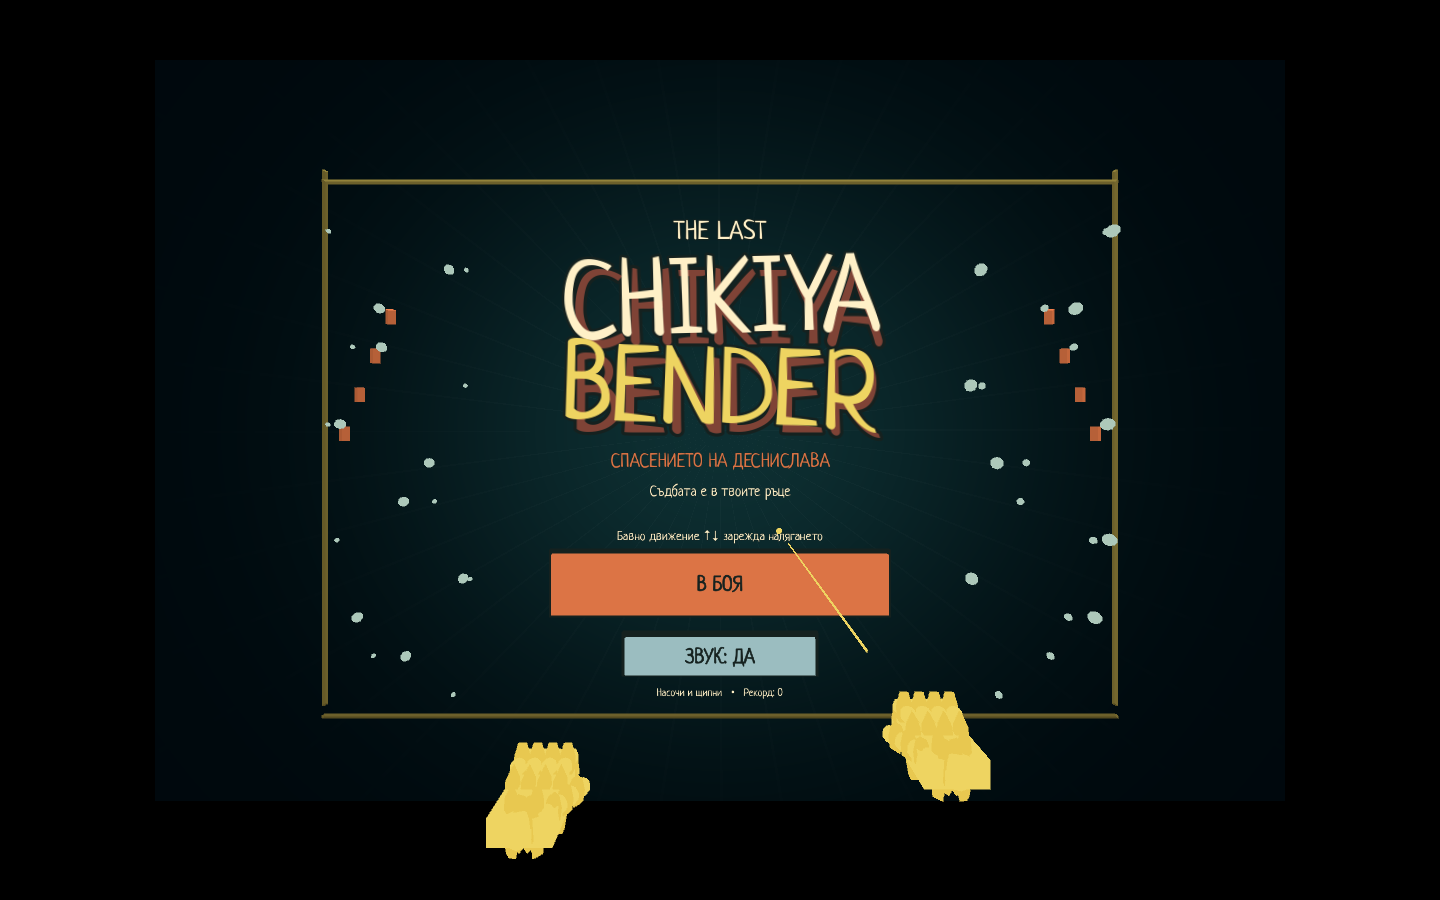
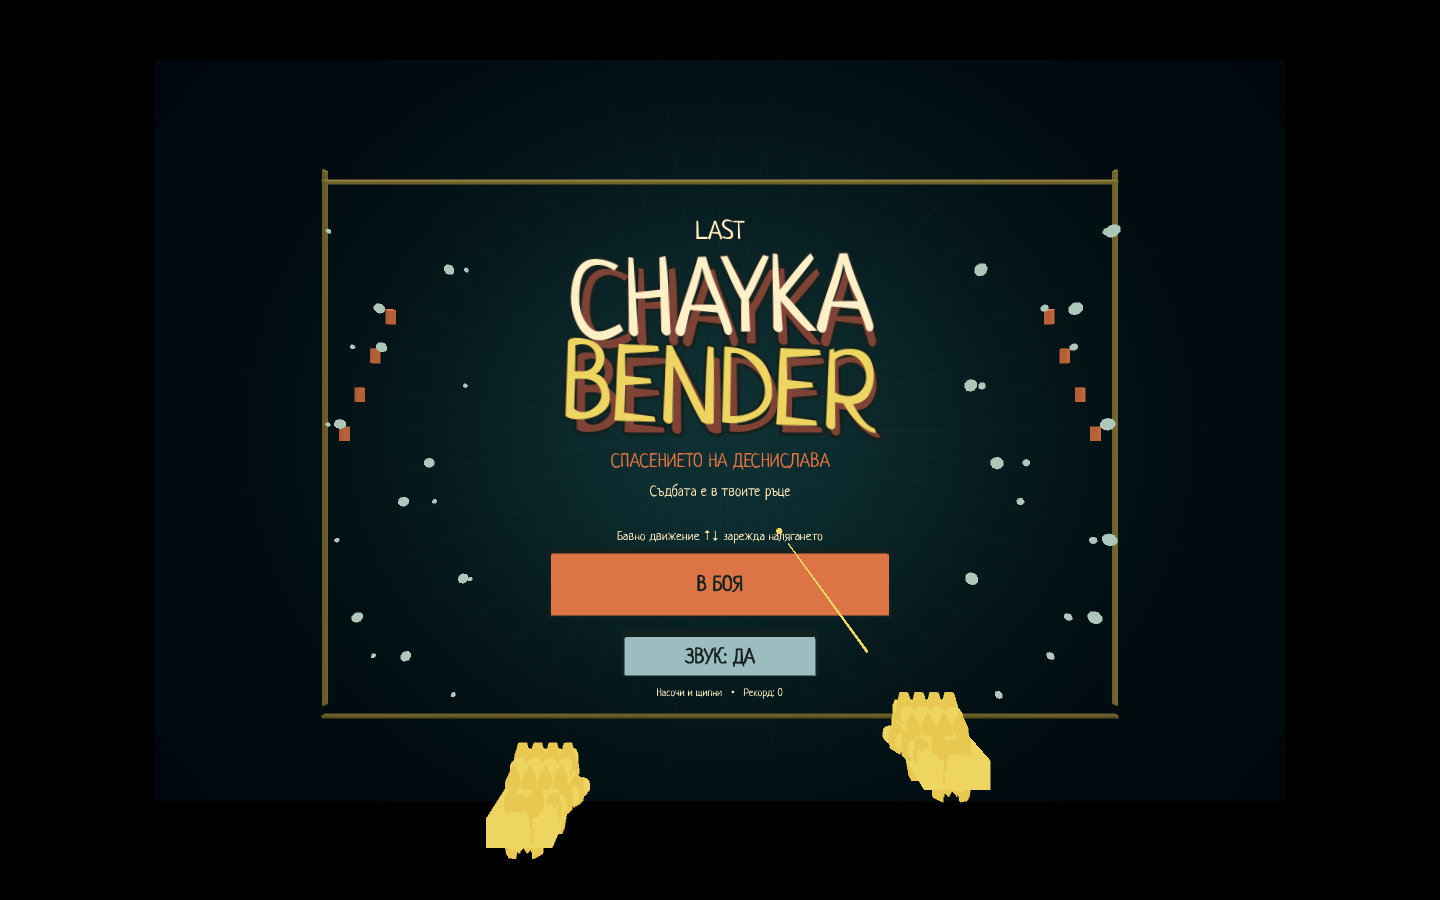
Rename game to Last Chayka Bender and prepare v0.2.2

Changed region(s): [[0.375, 0.2178, 0.625, 0.4044]]

diff --git a/tools/project.py b/tools/project.py
@@ -70,12 +70,12 @@ def setup():
     cache.parent.mkdir(exist_ok=True)
     if not cache.exists() or hashlib.sha256(cache.read_bytes()).hexdigest() != dep["sha256"]:
         print(f"Downloading OpenXR Vendors {dep['version']} from its official release...")
-        request = urllib.request.Request(dep["url"], headers={"User-Agent": "ChikiBender-Setup"})
+        request = urllib.request.Request(dep["url"], headers={"User-Agent": "LastChaykaBender-Setup"})
         with urllib.request.urlopen(request, timeout=120) as response, cache.open("wb") as output:
             shutil.copyfileobj(response, output)
     if hashlib.sha256(cache.read_bytes()).hexdigest() != dep["sha256"]:
         raise RuntimeError("OpenXR download SHA256 mismatch; dependency was not installed")
-    with tempfile.TemporaryDirectory(prefix="chiki-openxr-") as temporary:
+    with tempfile.TemporaryDirectory(prefix="chayka-openxr-") as temporary:
         with zipfile.ZipFile(cache) as archive:
             extract_safe(archive, Path(temporary))
         source = Path(temporary) / "asset/addons/godotopenxrvendors"
@@ -142,10 +142,10 @@ def main():
         android_template()
         (ROOT / "build").mkdir(exist_ok=True)
         run([engine(), "--headless", "--xr-mode", "off", "--path", ".", "--export-debug",
-             "Quest Pro Hands", "build/ChikiBender-Quest.apk"])
+             "Quest Pro Hands", "build/LastChaykaBender-Quest.apk"])
         run([sys.executable, "tests/verify_apk.py"])
     elif args.command == "install":
-        apk = ROOT / "build/ChikiBender-Quest.apk"
+        apk = ROOT / "build/LastChaykaBender-Quest.apk"
         if not apk.exists():
             raise RuntimeError("Build an APK first, or download the release into build/.")
         adb = tool("adb")

diff --git a/tests/verify_apk.py b/tests/verify_apk.py
@@ -10,7 +10,7 @@ import subprocess
 import zipfile
 
 ROOT = Path(__file__).resolve().parents[1]
-APK = ROOT / 'build/ChikiBender-Quest.apk'
+APK = ROOT / 'build/LastChaykaBender-Quest.apk'
 config_path = ROOT / '.local-tools.json'
 config = json.loads(config_path.read_text()) if config_path.exists() else {}
 aapt = os.environ.get('AAPT') or config.get('aapt') or shutil.which('aapt')
@@ -45,7 +45,7 @@ with zipfile.ZipFile(APK) as archive:
     assert any('main.gd' in n or 'main.tscn' in n or '.pck' in n for n in names)
     assert not any(n.startswith('assets/tests/') or n.startswith('assets/qa/') for n in names)
     assert not any('game-concept' in n or 'PROMPT' in n for n in names)
-report = {'apk': 'build/ChikiBender-Quest.apk', 'bytes': APK.stat().st_size,
+report = {'apk': 'build/LastChaykaBender-Quest.apk', 'bytes': APK.stat().st_size,
           'sha256': hashlib.sha256(APK.read_bytes()).hexdigest(),
           'package': expected_package, 'architecture': 'arm64-v8a',
           'required_hand_tracking': True, 'quest_pro_declared': True,

diff --git a/README.md b/README.md
@@ -1,4 +1,4 @@
-# The Last Chikiya Bender
+# Last Chayka Bender
 
 **Спасението на Деснислава — „Съдбата е в твоите ръце“**
 
@@ -10,7 +10,7 @@ Hand-tracking arcade wave game за **Meta Quest Pro**, направена с **
 
 ## Играй
 
-Изтегли APK от [Releases](https://github.com/peshigoshi27/the-last-chikiya-bender/releases). Това е **debug прототип 0.2.1**, не Store издание. Проектът е изпитван на Quest Pro; пълното физическо приемане на последната ревизия още предстои.
+Изтегли APK от [Releases](https://github.com/peshigoshi27/last-chayka-bender/releases). Това е **debug прототип 0.2.2**, не Store издание. Проектът е изпитван на Quest Pro; пълното физическо приемане на последната ревизия още предстои.
 
 Инсталирай със SideQuest или ADB, включи hand tracking и остави контролерите. Заглавието се появява автоматично. Насочи ръка към **„В БОЯ“** и щипни.
 
@@ -57,7 +57,7 @@ python3 tools/project.py build
 python3 tools/project.py install
 ```
 
-Build първо изпълнява тестовете, подготвя Android template от инсталираните Godot export templates, експортира и проверява APK. Ако template липсва, инсталирай го чрез **Project → Install Android Build Template**. Резултатът е `build/ChikiBender-Quest.apk`.
+Build първо изпълнява тестовете, подготвя Android template от инсталираните Godot export templates, експортира и проверява APK. Ако template липсва, инсталирай го чрез **Project → Install Android Build Template**. Резултатът е `build/LastChaykaBender-Quest.apk`.
 
 `install` използва ADB от `PATH`/Android SDK или променливата `ADB`. При няколко устройства задай `ANDROID_SERIAL`. На macOS има `BUILD.command`, `INSTALL.command`, `PREVIEW.command` за двоен клик.
 

diff --git a/docs/GAMEPLAY.bg.md b/docs/GAMEPLAY.bg.md
@@ -1,12 +1,12 @@
-# The Last Chikiya Bender
+# Last Chayka Bender
 
 **Спасението на Деснислава — „Съдбата е в твоите ръце“**
 
-Основа на самостоятелна arcade игра за Meta Quest Pro. От версия 0.1.2 бялата сапунена пяна излиза директно от дясната ръка, без видима помпа или тръба. Управлението е само с проследени ръце. Godot 4.7.2 + OpenXR Vendors; отделен package `com.vrvarna.chikibender`, без промени по GTA HUB VR.
+Основа на самостоятелна arcade игра за Meta Quest Pro. От версия 0.1.2 бялата сапунена пяна излиза директно от дясната ръка, без видима помпа или тръба. Управлението е само с проследени ръце. Godot 4.7.2 + OpenXR Vendors; отделен package `com.vrvarna.lastchaykabender`, без промени по GTA HUB VR.
 
 ## Стартиране
 
-Готовият build е `build/ChikiBender-Quest.apk`. Това е подписан debug APK за локална инсталация, не публикувана Store версия.
+Готовият build е `build/LastChaykaBender-Quest.apk`. Това е подписан debug APK за локална инсталация, не публикувана Store версия.
 
 1. Включи hand tracking и Developer Mode на Quest Pro. Свържи USB и разреши USB debugging в каската.
 2. Стартирай `INSTALL.command` с двоен клик. Инсталира само новия package и отваря играта. При повече от едно ADB устройство скриптът отказва да избира произволно.
